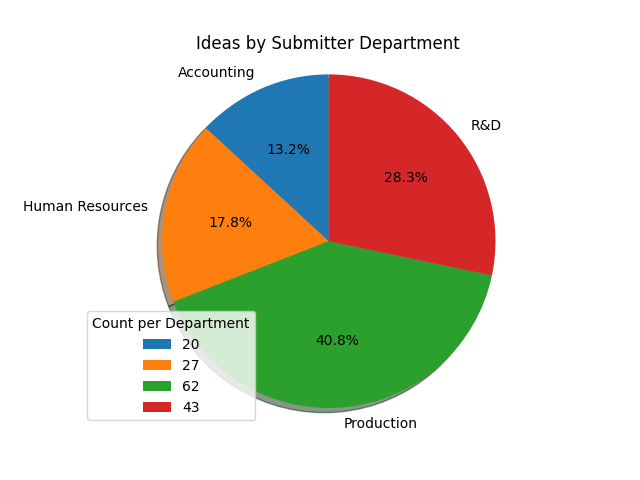
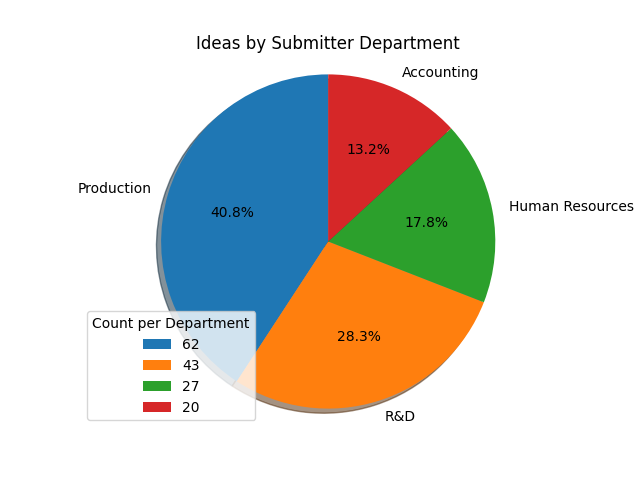
Updating answers and readme

diff --git a/app.py b/app.py
@@ -23,7 +23,7 @@ def execute():
     ##################
     # 3) Create a pie chart that shows the breakout of all ideas by department of person submitting the idea.
     print(pd.unique(data['Idea Submitter Department'])) # looks like 4 different departments in this dataset
-    counts = data.groupby(['Idea Submitter Department']).size().reset_index(name='counts')
+    counts = data.groupby(['Idea Submitter Department']).size().reset_index(name='counts').sort_values(by='counts', ascending=False)
     counts.set_index('Idea Submitter Department', inplace=True)
     fig1, ax1 = plt.subplots()
     ax1.pie(list(counts.counts), labels=list(counts.index), autopct='%1.1f%%', shadow=True, startangle=90)
